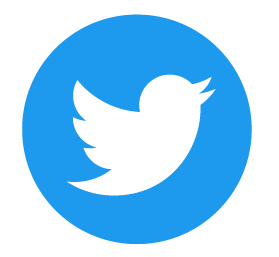
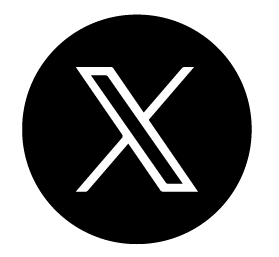
links actualizados

diff --git a/src/components/Footer/Footer.jsx b/src/components/Footer/Footer.jsx
@@ -7,6 +7,12 @@ import youtube from "../../assets/youtube.png";
 
 import "./footer.css";
 const Footer = () => {
+  const urlFacebook = "https://www.facebook.com/LU17com"
+  const urlTwitter = "https://twitter.com/lu17com"
+  const urlInstagram = "https://www.instagram.com/lu.17_com/"
+  const urlTiktok = "https://www.tiktok.com/@lu17.com"
+  const urlYoutube = "https://www.youtube.com/@Lu17com"
+
   return (
     <div className="footer-component">
       <div className="img-footer-container">
@@ -14,11 +20,11 @@ const Footer = () => {
         <div className="redes-container">
           <p>www.lu17.com</p>
           <div className="redes-logos-div">
-            <img className="redes" src={facebook} alt="facebook" />
-            <img className="redes" src={twitter} alt="twitter" />
-            <img className="redes" src={instagram} alt="instagram" />
-            <img className="redes" src={tiktok} alt="tiktok" />
-            <img className="redes" src={youtube} alt="youtube" />
+            <a href={urlFacebook} target="_blank" rel="noreferrer"><img className="redes" src={facebook} alt="facebook" /></a>
+            <a href={urlTwitter} target="_blank" rel="noreferrer"><img className="redes" src={twitter} alt="twitter" /></a>
+            <a href={urlInstagram} target="_blank" rel="noreferrer"><img className="redes" src={instagram} alt="instagram" /></a>
+            <a href={urlTiktok} target="_blank" rel="noreferrer"><img className="redes" src={tiktok} alt="tiktok" /></a>
+            <a href={urlYoutube} target="_blank" rel="noreferrer"><img className="redes" src={youtube} alt="youtube" /></a>
           </div>
         </div>
       </div>

diff --git a/src/components/Banner/banner.css b/src/components/Banner/banner.css
@@ -5,6 +5,7 @@
     display: flex;
     justify-content: center;
     align-items: center;
+    overflow-y: hidden;
 }
 .banner-container p{
     font-family: 'Prompt', sans-serif;
@@ -18,6 +19,7 @@
 
 @media (min-width: 768px) {
     .banner-container p {
-        font-size: 4rem;
+        font-size: 3rem;
+        font-weight: 600;
     }
 }
